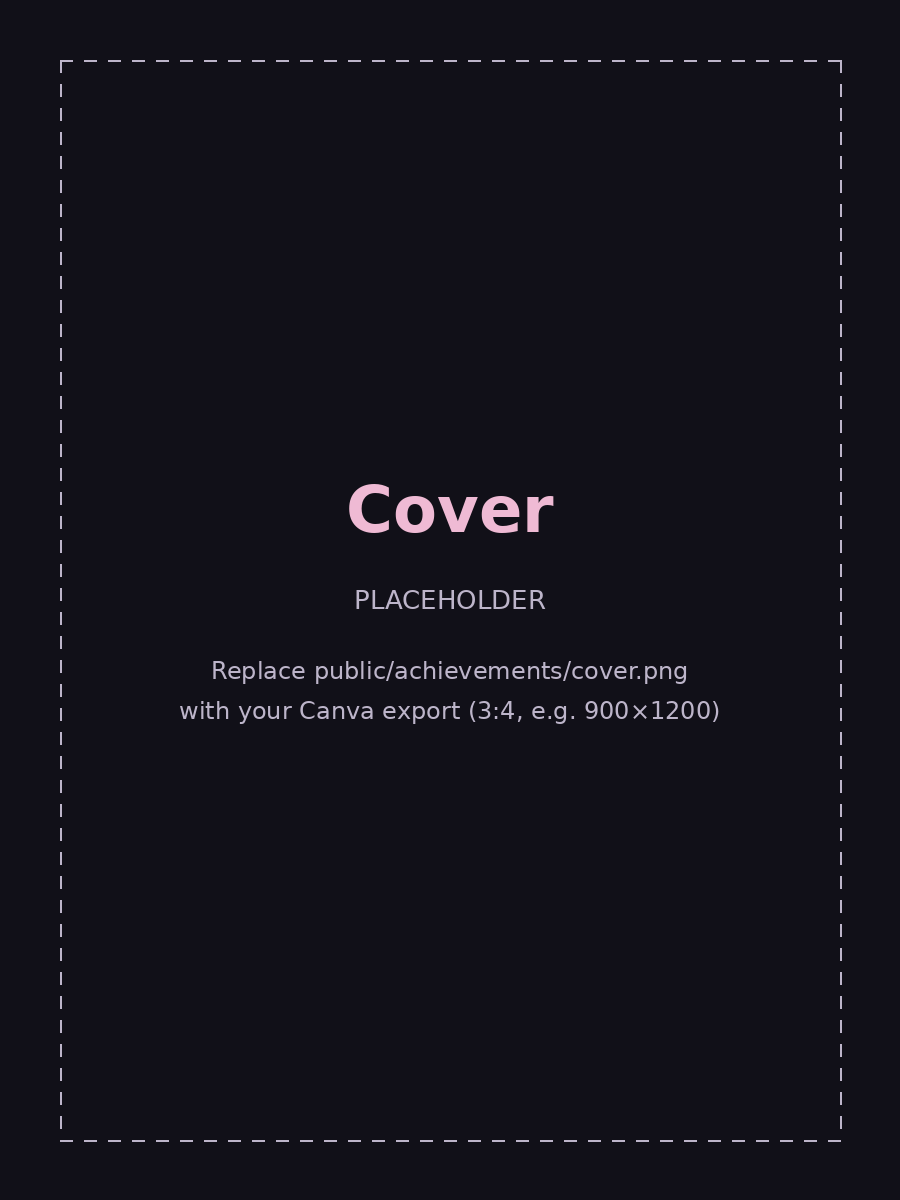
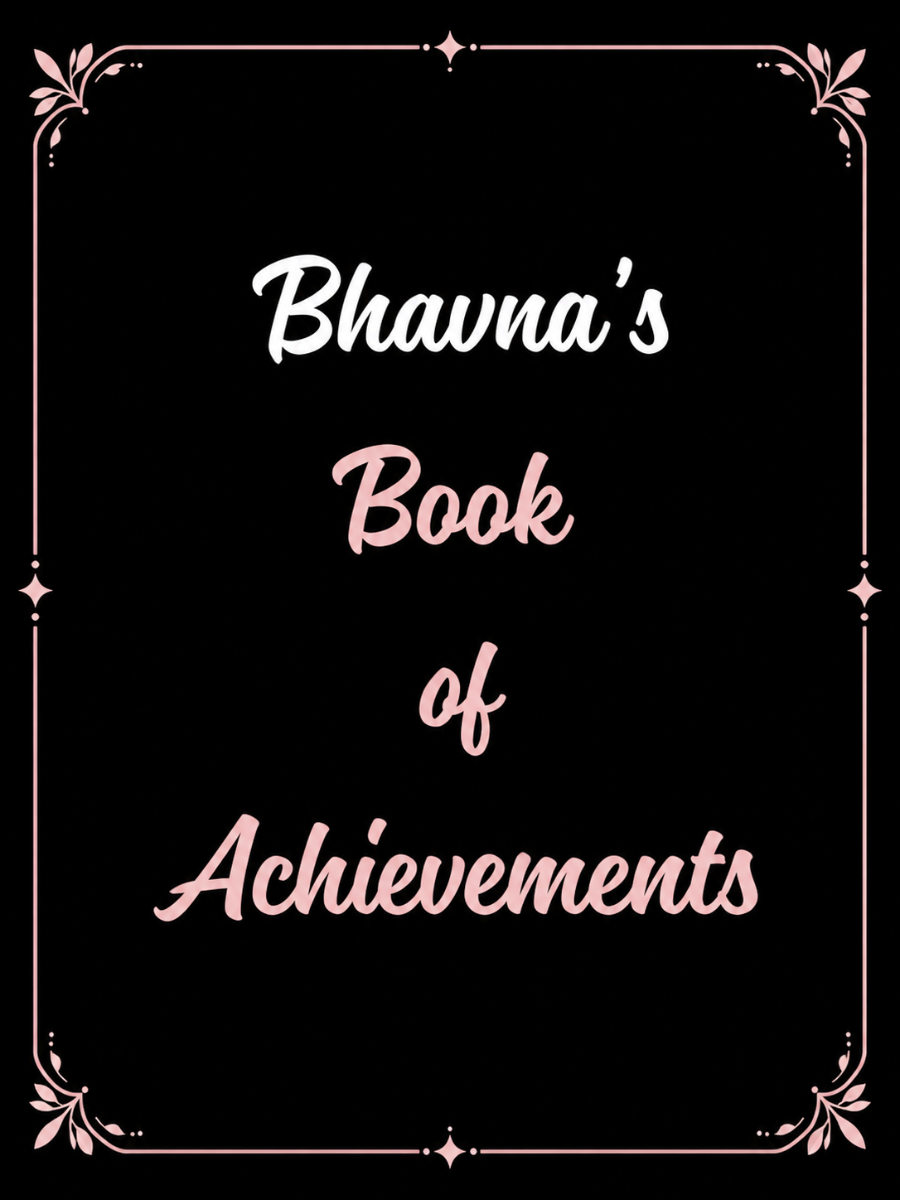
Achievements: new front cover, larger section heading

diff --git a/src/styles/achievements.module.css b/src/styles/achievements.module.css
@@ -43,7 +43,7 @@
   margin: 0;
   margin-top: 14px;
   color: #000;
-  font-size: min(clamp(28px, 3.6vw, 60px), 7svh);
+  font-size: min(calc(clamp(28px, 3.6vw, 60px) + 2px), calc(7svh + 2px));
 }
 
 .subtitle {
@@ -246,7 +246,7 @@
     gap: 2px;
   }
   .head .title {
-    font-size: clamp(20px, 6.2vw, 30px);
+    font-size: calc(clamp(20px, 6.2vw, 30px) + 2px);
   }
   .footerRow {
     position: static;
